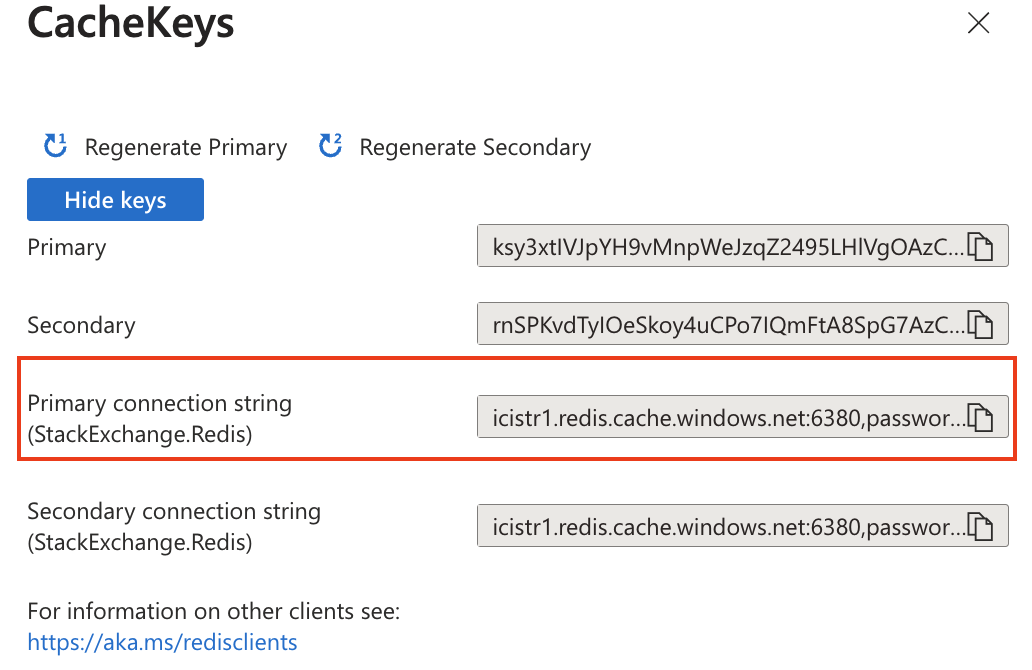
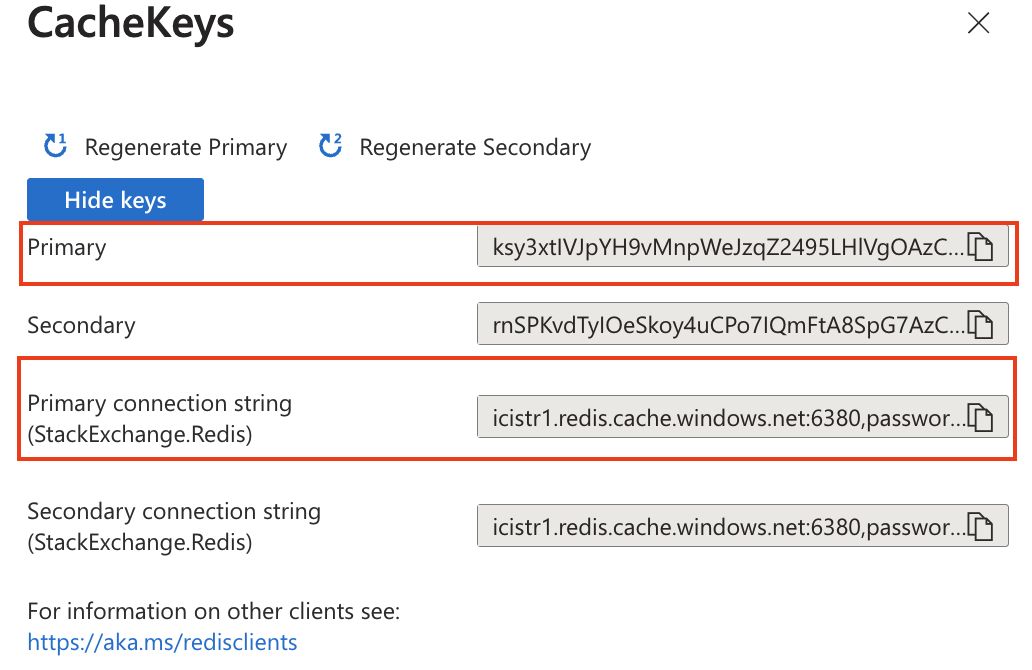
Advanced modified

Changed region(s): [[0.0, 0.3284, 0.9922, 0.4478]]

diff --git a/azure_advanced.md b/azure_advanced.md
@@ -201,7 +201,7 @@ Redis 버전은 최신인 6.x를 선택한다.
 
 <br/>
 
-Cached Key 에서 Primary Connection String 값을 복사합니다.  
+Cached Key 에서 Primary 값을 복사합니다.  
 
 <img src="./assets/azure_redis11.png" style="width: 60%; height: auto;"/>
 
@@ -364,6 +364,203 @@ DB 가 생성이 된 것을 확인 할수 있습니다.
 
 <br/>
 
+`baseinfo` DB에 table 을 생성 하도록 데이터를 입력한다.    
+- 아래는 mariadb 용이고 Mysql 로 변경 필요    
+
+<br/>
+
+```bash
+CREATE TABLE BI_CS_CUST_BAS (
+  CUST_ID varchar(11) NOT NULL,
+  SYS_TRTR_ID varchar(15) NOT NULL,
+  SYS_TRT_ORG_ID varchar(15) DEFAULT NULL,
+  SYS_SVC_ID varchar(50) DEFAULT NULL,
+  SYS_COMP_ID varchar(50) DEFAULT NULL,
+  SYS_RECD_CRET_DT TIMESTAMP NOT NULL,
+  SYS_RECD_CHG_DT TIMESTAMP DEFAULT NULL,
+  CUST_NM varchar(60) NOT NULL,
+  CUST_IDFY_NO varchar(20) NOT NULL,
+  CUST_IDFY_NO_TYPE_CD varchar(30) NOT NULL,
+  CUST_TYPE_CD varchar(3) NOT NULL,
+  CUST_PTCL_TYPE_CD varchar(2) DEFAULT NULL,
+  SALE_CMPN_ID varchar(11) NOT NULL,
+  DGT3_CNTRY_CD varchar(3) DEFAULT NULL,
+  DUPL_CUST_YN varchar(1) NOT NULL,
+  DUPL_CUST_WHY_CD varchar(1) DEFAULT NULL,
+  PERSON_SEX_DIV_CD varchar(3) DEFAULT NULL,
+  REG_ORG_ID varchar(11) DEFAULT NULL,
+  CUST_STTUS_TYPE_CD varchar(1) DEFAULT NULL,
+  CUST_STTUS_EFCT_ST_DATE TIMESTAMP DEFAULT NULL,
+  IPIN_CI varchar(88) DEFAULT NULL,
+  IPIN_DI varchar(64) DEFAULT NULL,
+  ICIS_CUST_ID varchar(11) DEFAULT NULL,
+  NSTEP_CUST_ID decimal(9,0) DEFAULT NULL,
+  RNM_ATHN_YN varchar(1) DEFAULT NULL,
+  EXP_DATE TIMESTAMP DEFAULT NULL,
+  IF_EXPT_YN varchar(1) DEFAULT NULL,
+  BOCU_ID varchar(11) DEFAULT NULL,
+  SYNC_HST_NO decimal(38,0) DEFAULT NULL,
+  SYNC_TRIGR_CRET_DT TIMESTAMP  DEFAULT CURRENT_TIMESTAMP,
+  SYNC_TRT_DT_VAL varchar(17) DEFAULT NULL,
+  CONSTRAINT BI_CS_CUST_BAS_PK PRIMARY KEY (CUST_ID)
+);
+CREATE INDEX BI_CS_CUST_BAS_IX01 ON BI_CS_CUST_BAS (CUST_NM,CUST_IDFY_NO_TYPE_CD,CUST_IDFY_NO);
+```  
+
+<br/>
+
+```bash
+INSERT INTO BI_CS_CUST_BAS (CUST_ID,SYS_TRTR_ID,SYS_TRT_ORG_ID,SYS_SVC_ID,SYS_COMP_ID,SYS_RECD_CRET_DT,SYS_RECD_CHG_DT,CUST_NM,CUST_IDFY_NO,CUST_IDFY_NO_TYPE_CD,CUST_TYPE_CD,CUST_PTCL_TYPE_CD,SALE_CMPN_ID,DGT3_CNTRY_CD,DUPL_CUST_YN,DUPL_CUST_WHY_CD,PERSON_SEX_DIV_CD,REG_ORG_ID,CUST_STTUS_TYPE_CD,CUST_STTUS_EFCT_ST_DATE,IPIN_CI,IPIN_DI,ICIS_CUST_ID,NSTEP_CUST_ID,RNM_ATHN_YN,EXP_DATE,IF_EXPT_YN,BOCU_ID,SYNC_HST_NO,SYNC_TRIGR_CRET_DT,SYNC_TRT_DT_VAL) VALUES
[9 lines of base64/hex data omitted]
+	 ('BVKKZUEGH0V','MIG',NULL,NULL,'DR-2017-05850:청구계정BIZR고객 복구(I)','2007-08-11 04:57:20.0','2017-02-12 22:33:52.0','새동락식당','4102518092','7','2','N1','KT','KOR','Y',NULL,NULL,NULL,'3','2007-08-11 00:00:00.0',NULL,NULL,'0004754751C',NULL,NULL,NULL,'N',NULL,NULL,NULL,NULL);
+```    
+
+<br/>
+
+```bash
+CREATE TABLE BI_CSYSCD (
+	GRP_ID VARCHAR(4) NOT NULL,
+	CD VARCHAR(7) NOT NULL,
+	NAME VARCHAR(50) NOT NULL,
+	OUTPUT_SEQ NUMBER,
+	REF1 VARCHAR(10),
+	REF2 VARCHAR(20),
+	REF3 NUMBER,
+	REMARK VARCHAR(120),
+	REG_DATE DATE,
+	REG_OFC_CD VARCHAR(6),
+	REGER_EMP_NO VARCHAR(9),
+	REGER_EMP_NAME VARCHAR(10),
+	DEFINE_NAME VARCHAR(80),
+	END_EMP_NO VARCHAR(9),
+	END_EMP_NAME VARCHAR(10),
+	END_DATE VARCHAR(8),
+	START_DATE VARCHAR(8),
+	REF4 VARCHAR(20),
+	REF5 VARCHAR(20),
+	CONSTRAINT BI_CSYSCD_PK PRIMARY KEY (GRP_ID,CD)
+);
+CREATE INDEX BI_CSYSCD_IX01 ON BI_CSYSCD (GRP_ID,CD,NAME);
+```  
+
+<br/>
+
+`ppon` DB에 table 을 생성 하도록 데이터를 입력한다.    
+- 아래는 mariadb 용이고 Mysql 로 변경 필요    
+
+```bash
+CREATE TABLE PP_CORDORDINFO (
+	ORD_NO VARCHAR(15) NOT NULL,
+	SA_ID VARCHAR(11) DEFAULT NULL,
+	SA_CD VARCHAR(4) DEFAULT NULL,
+	SVC_TYPE_CD VARCHAR(2) DEFAULT NULL,
+	TERM_CNTRCT_TYPE VARCHAR(1),
+	KT_USE_FLAG VARCHAR(1),
+	SVC_NO VARCHAR(20),
+	ORD_MNG_NO VARCHAR(10),
+	SVC_OFC_CD VARCHAR(9),
+	EXCH_OFC_CD VARCHAR(6),
+	INSTL_MNG_OFC_CD VARCHAR(6),
+	CUST_ID VARCHAR(11),
+	CUST_NAME VARCHAR(50),
+	CUST_NO_TYPE VARCHAR(1),
+	CUST_NO VARCHAR(20),
+	USER_ORD_TYPE_CD VARCHAR(2) ,
+	ORD_TYPE_CD VARCHAR(2) ,
+	ORD_TYPE_CD_1 VARCHAR(2),
+	ORD_TYPE_CD_2 VARCHAR(2),
+	ORG_ORD_TYPE_CD VARCHAR(2),
+	ORD_RSN_CD VARCHAR(2),
+	ORD_STATUS_CD VARCHAR(2) ,
+	TRAN_TYPE_CD VARCHAR(2),
+	REQER_NAME VARCHAR(50),
+	CUST_REL_CD VARCHAR(2),
+	COMPLETED_RESV_DATE_HH VARCHAR(10),
+	CONST_DATE VARCHAR(8),
+	COMPLETED_DATE_HH VARCHAR(10),
+	WORK_DELAY_RSN_CD VARCHAR(4),
+	L_WORK_DELAY_RSN_CD VARCHAR(4),
+	TEST_DD_CNT NUMBER(3,0),
+	CONST_RESV_DATE VARCHAR(8),
+	P_INSTL_SVC_NO VARCHAR(20),
+	REUSE_SVC_NO_FLAG VARCHAR(1),
+	REUSE_SVC_NO VARCHAR(16),
+	IA_ADDR_FLAG VARCHAR(1),
+	CNTC_MEDIA_CD VARCHAR(2),
+	CNTC_TEL_NO VARCHAR(20),
+	CNTC_TEL_NO_1 VARCHAR(12),
+	CNTC_EMAIL_ADDR VARCHAR(50),
+	CNTC_ADDR VARCHAR(100),
+	"REF" VARCHAR(100),
+	ADDR_TEXT VARCHAR(100),
+	SVC_CNT NUMBER,
+	CNTC_CUST_NO VARCHAR(13),
+	PAUSE_SA_ID VARCHAR(11),
+	RCV_OFC_CD VARCHAR(9),
+	RCV_DATE VARCHAR(8) ,
+	RCVER_EMP_NO VARCHAR(9),
+	RCVER_EMP_NAME VARCHAR(50),
+	RCVER_EMP_TEL_NO VARCHAR(12),
+	REG_DATE DATE DEFAULT sysdate ,
+	LEGACY_ORD_NO VARCHAR(20),
+	REUSE_SVC_CD VARCHAR(1),
+	COMPLETE_FLAG VARCHAR(1) DEFAULT '0' NOT NULL,
+	CANCEL_RSN_CD VARCHAR(2),
+	CANCEL_REF VARCHAR(100),
+	CANCEL_REGER_NAME VARCHAR(50),
+	CSR_NOTE VARCHAR(100),
+	MIG_ID VARCHAR(5),
+	MIG_DATE DATE,
+	CHNG_SVC_NO VARCHAR(20),
+	PAUSE_RS_CD VARCHAR(2),
+	RS_ORD_NO VARCHAR(15),
+	RS_SA_ID VARCHAR(11),
+	NP_KIND VARCHAR(1) DEFAULT null,
+	DOR_SVC_NO VARCHAR(20),
+	OTHER_BUSI_CD VARCHAR(1),
+	INIT_RESV_DATE_HH VARCHAR(10),
+	REPR_ORD_NO VARCHAR(15),
+	INSTALLER_TYPE VARCHAR(1),
+	REAL_COMPLETED_DATE DATE,
+	COMPETE_COMPANY_CD VARCHAR(2),
+	WORK_TEAM_CD VARCHAR(2),
+	SMT_CONTL_ORD_NO VARCHAR(15),
+	SGL_SA_CD VARCHAR(4),
+	SGL_SA_DTL_CD VARCHAR(4),
+	CANCEL_TIME VARCHAR(2),
+	CHG_DATE DATE,
+	IDENTITY_FLAG VARCHAR(1),
+	STAMP_TAXT_FLAG VARCHAR(1),
+	PAPER_CD VARCHAR(1),
+	CUST_ENV VARCHAR(20),
+	DOC_SEC_REQ_FLAG VARCHAR(1),
+	EMG_REQ_FLAG VARCHAR(1),
+	WM_EMP_NO VARCHAR(20),
+	DAY_DIV VARCHAR(2),
+	CANCEL_REFUSE_FLAG VARCHAR(1),
+	RADDR_TEXT VARCHAR(200),
+	BNA_FLAG VARCHAR(1),
+	APP_REQ_ID VARCHAR(15),
+	AGENCY_CD VARCHAR(9),
+	CUST_CNTPLC_SEQ NUMBER(10,0),
+	IST_DIV_CD VARCHAR(2),
+	KNOTE_ITEM_ID VARCHAR(100),
+	INSTL_TEL_NO VARCHAR(20),
+	CONSTRAINT PP_CORDORDINFO_PK PRIMARY KEY (ORD_NO)
+);
+CREATE INDEX PP_CORDORDINFO_IX01 ON PP_CORDORDINFO (SA_ID,ORD_NO);
+```  
+
+<br/>
+
 
 ## 8. Full Stack Application 배포 해 보기 
 
@@ -399,7 +596,9 @@ pponsub    ClusterIP      10.0.174.11    <none>           80/TCP         17h
 
 <br/>
 
-`https://github.com/azure-edu` 에 소스가 저장되어 있고 `private`으로 구성되어 있다.  
+`https://github.com/azure-edu` 에 소스가 저장되어 있고 `private`으로 구성되어 있다.      
+
+repository 6개를 다 fork 하고 secret 설정 후에 GitHub Action으로 6개 도커 이미지를 생성 해야 한다.
 
 <br/>
 
@@ -536,6 +735,31 @@ mvp_ppon_sub_backend
 
 <br/>
 
+Azure DB For MySQL 연동시에는 application-prd.yaml에 아래와 같이 설정한다.
+
+```yaml
+  ## azure MySQL
+    #driverClassName: org.mysql.jdbc.Driver #org.mariadb.jdbc.Driver
+    #url: jdbc:mysql://icistr1.mysql.database.azure.com:3306/baseinfo 
+    #username: kt_admin
+    ##password: New11111111!
+    #password: ENC(cX5eDeWCal1Zen+LxWhQFXkqh44xdeDG)
+```  
+
+<br/>
+
+pom.xml 에는 아래 와 같이 library 추가   
+```yaml
+          <!-- MySQL -->
+	        <dependency>
+	            <groupId>mysql</groupId>
+	            <artifactId>mysql-connector-java</artifactId>
+	            <version>8.0.28</version>
+	        </dependency>
+```
+
+<br/>
+
 ### frontend
 
 <br/>
@@ -545,12 +769,15 @@ mvp_frontend
 
 <br/>
 
+
 ### ArgoCD 로 배포하기
 
 <br/>
 
 
-`https://github.com/azure-edu-gtiops` 에 gitops manifest 가 저장되어 있고 `public`으로 구성되어 있다.  
+`https://github.com/azure-edu-gitops` 에 gitops manifest 가 저장되어 있고 `public`으로 구성되어 있다.    
+
+해당 repository 를 fork 하여 본인의 docker image 이름으로 다 변경한다.
 
 <br/>
 
